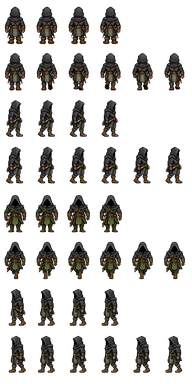
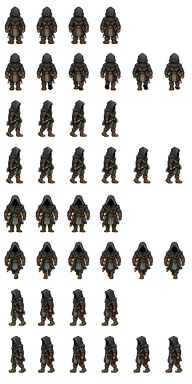
fix(spatial): remove olive cast from south-facing sprites

diff --git a/CHANGELOG.md b/CHANGELOG.md
@@ -213,5 +213,5 @@ The entries below cover the v0.52.x development line through v0.52.49. This line
 
 ### v0.52.50: South-facing player sprite palette correction
 
-- Corrected the green/olive tones in the south-facing idle and walk sprite rows with a targeted 12% luminance reduction on saturated green pixels. Other directions, non-green pixels, alpha, frame positions, and the animation manifest remain unchanged.
+- Recolored the 1,427 olive pixels in the south-facing idle and walk rows (atlas rows 4–5, zero-indexed) to a restrained warm-charcoal palette while preserving per-pixel luminance to rounding, alpha, frame positions, all unselected pixels, and the animation manifest.
 - Bumped Rust and Android fallback version metadata to 0.52.50.
